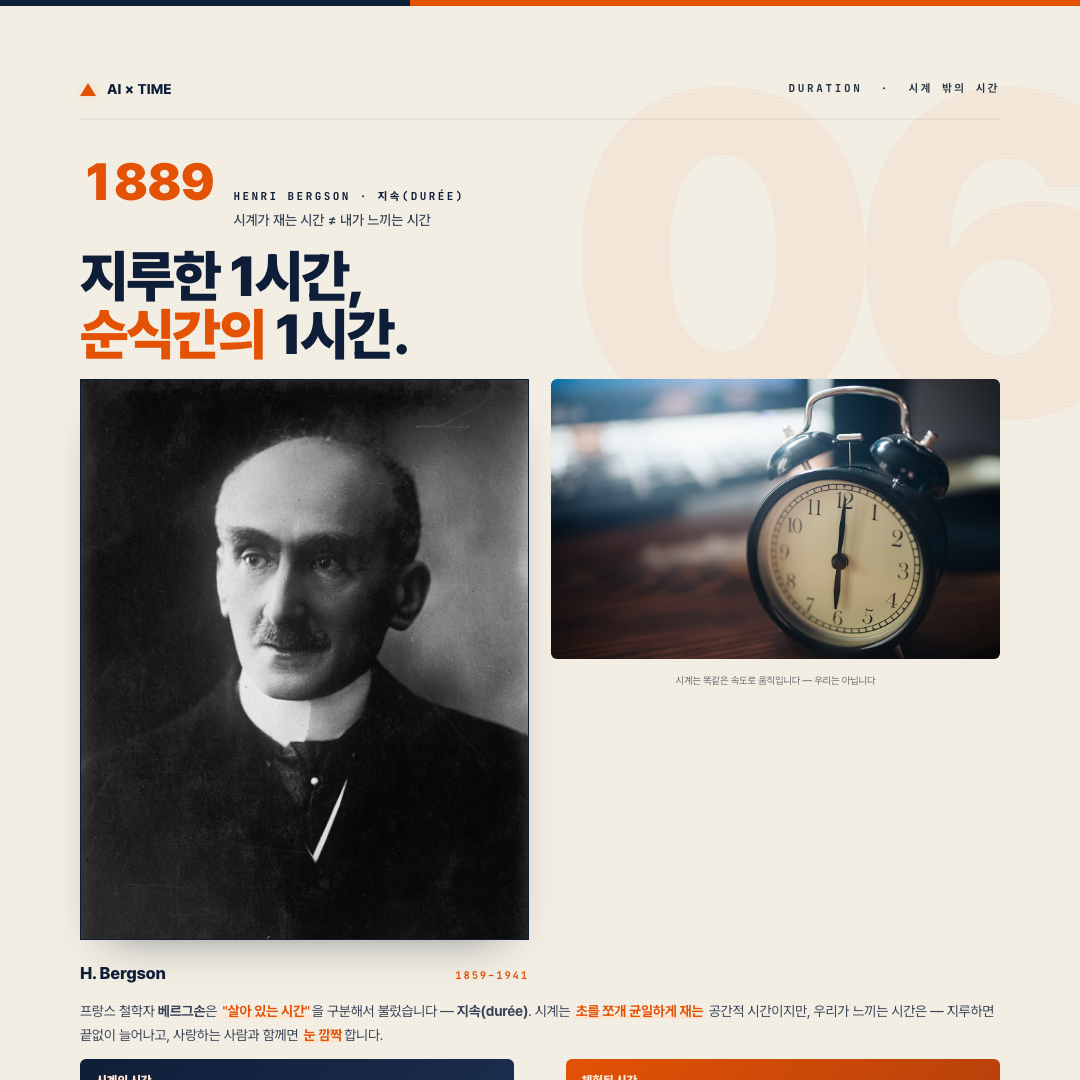
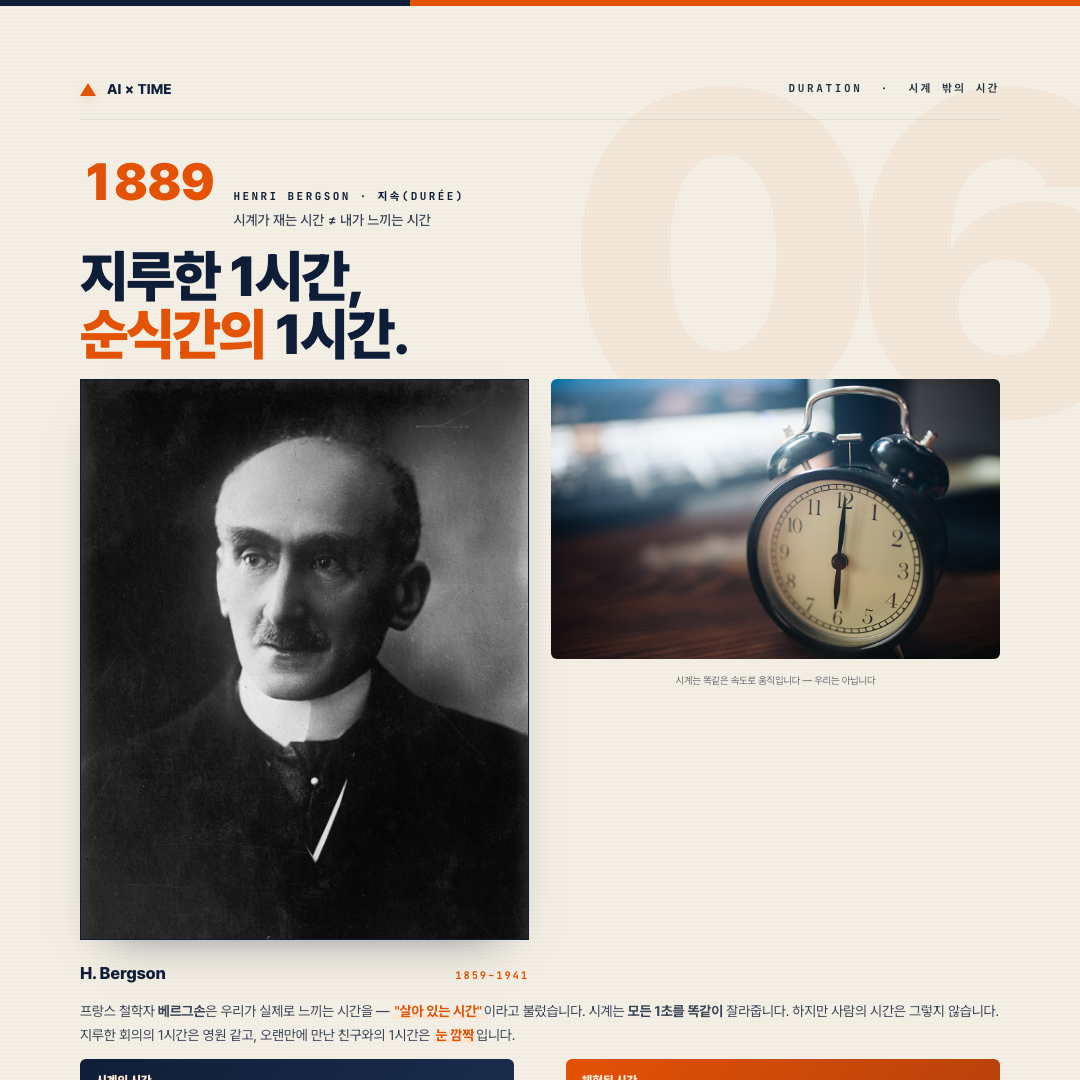
simplify(time): 디퓨전 모델 설명 추가 + 전반적으로 일반 독자 친화
- 08 Diffusion: "디퓨전이 뭐하는 모델인지"부터 설명. 3-step pipeline
  (섞기 훈련 → 복원 학습 → 생성 사용) 박스로 시각화.
  Stable Diffusion · DALL-E · Sora 언급하여 독자가 이미 아는 이름과
  연결. 달걀 비유는 유지하되 "법칙을 뚫은 게 아니라 과정을 기억한 것"
  으로 오해 없도록 명확화.

- 07 Attention: 시작 문단에 "ChatGPT의 핵심 부품" 한 줄 먼저.
  "셀프 어텐션 = 각 단어가 다른 단어를 얼마나 참고할지 계산" 풀이.

- 02 Boltzmann: "열역학 제2법칙" 용어 제거 → "외부에서 정리 안 하면
  저절로 어질러진다"로 평문화.

- 03 Chaos: 삼체·나비효과 도입부를 질문형으로. 《삼체》 소설 언급.

- 04 Arrow: "영화를 뒤로 돌린 적 있습니까" 체감 도입.

- 06 Bergson: "지속(durée)" 한자·영어 대신 "살아 있는 시간"으로.

- 09 Synthesis: "금지된 두 가지가 AI에겐 매일 하는 일" 풀이.

Changed region(s): [[0.0611, 0.9167, 0.9167, 0.9778]]

diff --git a/17-cards-time/08-diffusion.html b/17-cards-time/08-diffusion.html
@@ -1,5 +1,5 @@
 <!DOCTYPE html>
-<html lang="ko"><head><meta charset="UTF-8" /><title>08 · Diffusion · 섞음을 되감다</title>
+<html lang="ko"><head><meta charset="UTF-8" /><title>08 · 디퓨전 모델</title>
 <link rel="stylesheet" href="https://fonts.googleapis.com/css2?family=JetBrains+Mono:wght@400;500;700&family=Noto+Serif+KR:wght@400;700;900&family=Noto+Sans+KR:wght@300;400;500;700;900&display=swap" />
 <link rel="stylesheet" href="../style.css" /></head>
 <body>
@@ -8,45 +8,48 @@
   <div class="stage">
     <div class="header">
       <div class="brandmark"><span class="tri"></span> AI × TIME</div>
-      <div class="chaptertag">DIFFUSION &nbsp;·&nbsp; 엔트로피를 거꾸로</div>
+      <div class="chaptertag">DIFFUSION &nbsp;·&nbsp; 섞인 것을 되돌리는 AI</div>
     </div>
     <div class="era">
-      <span class="year">2015·2020</span>
-      <span class="label"><b>Sohl-Dickstein · Ho et al. · DDPM</b><span class="sub">섞기 → 되감기의 수학</span></span>
+      <span class="year">2020</span>
+      <span class="label"><b>디퓨전 모델 · Stable Diffusion · Sora의 뿌리</b><span class="sub">한 줄의 텍스트로 그림이 나오는 이유</span></span>
     </div>
-    <h1 class="title sm">AI는 <em>스크램블 에그</em>를<br />다시 달걀로 돌립니다.</h1>
+    <h1 class="title sm">AI 그림은 —<br /><em>안개</em>에서 태어납니다.</h1>
+
+    <div class="body" style="margin-top:12px; font-size:14.5px;">
+      <p><b>디퓨전 모델</b>은 <em>Stable Diffusion · DALL-E · Sora</em> 같은 이미지·영상 AI의 핵심입니다. 글 몇 줄만 쓰면 한 번도 존재하지 않은 그림을 만들어냅니다. 어떻게 가능할까요? 답은 놀랍게도 — <b>시간을 거꾸로 돌리는 학습</b>입니다.</p>
+    </div>
+
+    <!-- 3-step pipeline -->
+    <div style="margin-top:14px; display:grid; grid-template-columns:1fr 1fr 1fr; gap:12px;">
+      <div style="padding:13px 15px; background:linear-gradient(135deg, #0f1e38, #1c2e4e); border-radius:6px; color:white;">
+        <div style="font-size:12px; font-weight:900; color:#FFE4D0; margin-bottom:4px;">1. 섞기 (훈련)</div>
+        <div style="font-size:11.5px; opacity:0.92; line-height:1.5;">진짜 사진에 <b>노이즈(먼지)</b>를 조금씩 섞어 — 완전한 <em style="color:#FFE4D0;">안개</em>로 만듭니다.</div>
+      </div>
+      <div style="padding:13px 15px; background:linear-gradient(135deg, #0f1e38, #1c2e4e); border-radius:6px; color:white;">
+        <div style="font-size:12px; font-weight:900; color:#FFE4D0; margin-bottom:4px;">2. 복원 배우기</div>
+        <div style="font-size:11.5px; opacity:0.92; line-height:1.5;">"이 안개를 한 단계 덜 흐리게 만들려면 무엇을 지워야 하나"를 <em style="color:#FFE4D0;">반복 학습</em>합니다.</div>
+      </div>
+      <div style="padding:13px 15px; background:linear-gradient(135deg, #E35205, #B5400B); border-radius:6px; color:white;">
+        <div style="font-size:12px; font-weight:900; color:#FFE4D0; margin-bottom:4px;">3. 생성 (사용)</div>
+        <div style="font-size:11.5px; opacity:0.95; line-height:1.5;">완전한 안개에서 <b>한 단계씩 지워</b> — 한 번도 없던 <em style="color:#FFE4D0;">새 그림</em>이 나옵니다.</div>
+      </div>
+    </div>
 
     <div class="split" style="grid-template-columns:1.2fr 1fr; gap:22px; margin-top:14px; align-items:start;">
       <div class="left body-sm" style="font-size:13.5px;">
-        <p><b>디퓨전 모델</b>의 아이디어는 황당할 만큼 단순합니다 —<br /><em>① 이미지에 노이즈(먼지)를 아주 조금씩 넣어 완전히 흐릿한 안개로 만듭니다.</em><br /><em>② 그 과정을 하나하나 기억한 다음, 반대 방향으로 되돌리는 법을 배웁니다.</em></p>
-        <p style="margin-top:8px;">달걀을 풀어 스크램블 에그를 만들면 — 엔트로피가 올라갑니다. 자연에선 이걸 되돌릴 수 없습니다. 그런데 AI는 <b>"어떻게 섞였는지"</b>를 통째로 배워서 — <em>거꾸로 되감는 법</em>을 알아냈습니다. <b>엔트로피를 역산</b>하는 기계입니다.</p>
-        <div style="margin-top:10px; padding:9px 12px; background:rgba(227,82,5,0.07); border-left:3px solid var(--brand);">
-          <div style="font-size:9.5px; letter-spacing:1.5px; color:var(--brand); font-weight:700;">DDPM · 2020</div>
-          <div style="font-size:12px; line-height:1.5;">T단계 동안 노이즈를 더하고 / T단계에 걸쳐 다시 지웁니다. 이것이 Stable Diffusion · DALL-E · Sora의 뿌리입니다.</div>
-        </div>
+        <p>비유하자면 — <b>달걀 풀기 → 스크램블 에그</b>는 자연에서 일어납니다. 하지만 <em>반대로</em>, 스크램블 에그를 다시 달걀로 되돌리는 건 불가능합니다. 엔트로피 법칙이 막습니다.</p>
+        <p style="margin-top:8px;">디퓨전 AI는 이 법칙을 <b>뚫은 것이 아닙니다</b>. 대신 — <em>"어떻게 섞였는지"를 수백만 번 관찰</em>한 뒤, 그 기록을 이용해 <b>한 단계씩 거꾸로</b> 지우는 법을 배운 것입니다. 자연이 못 하는 걸 AI가 해낸 이유 — <em>과정을 통째로 기억했기 때문</em>입니다.</p>
       </div>
       <div class="right">
-        <img src="../images/scrambled-eggs.jpg" style="width:100%; height:260px; object-fit:cover; border-radius:6px;" alt="Scrambled eggs" />
-        <p style="font-size:10px; margin-top:4px; opacity:0.6; text-align:center;">자연에선 불가능 · AI는 가능합니다</p>
-      </div>
-    </div>
-
-    <!-- Forward vs Reverse diffusion -->
-    <div style="margin-top:14px; display:grid; grid-template-columns:1fr auto 1fr; gap:14px; align-items:stretch;">
-      <div style="padding:12px 16px; background:linear-gradient(135deg, #0f1e38, #1c2e4e); border-radius:6px; color:white;">
-        <div style="font-size:12.5px; font-weight:900; color:#FFE4D0; margin-bottom:4px;">섞기 (Forward)</div>
-        <div style="font-size:11.5px; opacity:0.92; line-height:1.5;">깨끗한 이미지 → <em style="color:#FFE4D0;">완전한 안개</em>까지 서서히 섞습니다. 자연의 방향.</div>
-      </div>
-      <div style="font-size:20px; font-weight:900; color:var(--brand); align-self:center;">↩</div>
-      <div style="padding:12px 16px; background:linear-gradient(135deg, #E35205, #B5400B); border-radius:6px; color:white;">
-        <div style="font-size:12.5px; font-weight:900; color:#FFE4D0; margin-bottom:4px;">되감기 (Reverse)</div>
-        <div style="font-size:11.5px; opacity:0.95; line-height:1.5;">안개 → 그림으로 <em style="color:#FFE4D0;">거꾸로</em>. AI만 할 수 있는 방향입니다.</div>
+        <img src="../images/scrambled-eggs.jpg" style="width:100%; height:220px; object-fit:cover; border-radius:6px;" alt="Scrambled eggs" />
+        <p style="font-size:10px; margin-top:4px; opacity:0.6; text-align:center;">자연은 못 합니다 · AI는 <em>기록한 만큼</em> 해냅니다</p>
       </div>
     </div>
 
     <div class="insight" style="margin-top:12px; padding:11px 18px;">
-      <span class="label" style="font-size:11px;">▲ 철학적 의미</span>
-      <span class="text" style="font-size:13.5px;">디퓨전은 <em>엔트로피 법칙을 이기는 기계</em>가 아닙니다. 섞는 과정을 <b>완벽히 기록</b>했기 때문에 되감을 수 있을 뿐입니다 — 시간의 방향은 여전히 한쪽입니다.</span>
+      <span class="label" style="font-size:11px;">▲ 핵심</span>
+      <span class="text" style="font-size:13.5px;">디퓨전은 <em>엔트로피를 이기는 기계</em>가 아니라 — <b>섞는 과정을 역재생할 수 있는 기계</b>입니다. 시간의 방향은 여전히 한쪽입니다.</span>
     </div>
 
     <div class="foot">

diff --git a/17-cards-time/03-chaos.html b/17-cards-time/03-chaos.html
@@ -25,11 +25,11 @@
         </div>
       </div>
       <div class="right body-sm" style="font-size:13.5px;">
-        <p>1890년 <b>푸앵카레</b>는 간단한 질문을 풀다가 놀랐습니다. 태양·지구·달처럼 <em>별 세 개</em>가 서로 끌어당기는 운동을 계산하려 했더니 — <b>정확한 해가 존재하지 않았습니다</b>. 이것이 <em>삼체 문제(Three-Body Problem)</em>입니다.</p>
-        <p style="margin-top:8px;">법칙은 분명합니다(뉴턴의 중력). 처음 위치도 압니다. 그런데 — <b>시작을 아주 조금만 다르게 잡아도</b> 결과가 완전히 달라집니다. 소설 <em>《삼체》(류츠신)</em>가 바로 이 현상을 제목으로 삼았습니다.</p>
+        <p>해·지구·달처럼 <em>별 세 개</em>가 서로 끌어당기면 어떻게 움직일까요? 1890년 <b>푸앵카레</b>는 이 단순한 문제를 풀려다가 놀랐습니다. 계산식 자체는 있습니다. 그런데 — <b>정확한 답이 존재하지 않았습니다</b>. 이것이 <em>삼체 문제</em>입니다. 류츠신의 SF 소설 <em>《삼체》</em>가 바로 여기서 제목을 가져왔습니다.</p>
+        <p style="margin-top:8px;">법칙은 알고 시작 위치도 압니다. 그런데 — <b>시작을 아주 조금만 다르게 잡으면</b> 결과가 완전히 달라집니다. 결정론의 꿈에 균열이 생긴 순간입니다.</p>
         <div style="margin-top:10px; padding:9px 12px; background:rgba(227,82,5,0.07); border-left:3px solid var(--brand);">
           <div style="font-size:9.5px; letter-spacing:1.5px; color:var(--brand); font-weight:700;">↩ 이어지는 시리즈 · 16 DESTINY</div>
-          <div style="font-size:12px; line-height:1.5;">"라플라스의 악마"는 모든 걸 알면 미래를 안다고 했습니다. 삼체와 카오스는 그 꿈에 첫 번째가 아닌 <em>두 번째 구멍</em>을 냈습니다.</div>
+          <div style="font-size:12px; line-height:1.5;">"모든 원자를 알면 미래도 안다"는 <b>라플라스의 꿈</b>에, 카오스는 <em>두 번째 구멍</em>을 냈습니다. 첫 번째는 양자역학이었습니다.</div>
         </div>
       </div>
     </div>
@@ -37,8 +37,8 @@
     <!-- Lorenz butterfly effect -->
     <div class="split" style="grid-template-columns:1.2fr 1fr; gap:22px; margin-top:14px; align-items:start;">
       <div class="left body-sm" style="font-size:13.5px;">
-        <p>1963년 기상학자 <b>에드워드 로렌츠</b>가 컴퓨터 시뮬레이션에서 <em>소수점 셋째 자리</em>만 달리 입력했더니 — 몇 주 뒤 기상 예보가 완전히 달라졌습니다. <em>"브라질에서 나비가 날개짓하면, 텍사스에 토네이도가 올까?"</em> 이것이 <b>나비효과</b>입니다.</p>
-        <p style="margin-top:8px;">우주는 결정적입니다. 그러나 <em>무한히 정밀한 측정은 불가능</em>합니다. 법칙 + 불완전한 정보 = 현실적 <b>예측 불가</b>. 카오스는 이런 구조를 부르는 이름입니다.</p>
+        <p>1963년 기상학자 <b>에드워드 로렌츠</b>는 날씨 시뮬레이션에서 숫자 하나의 <em>소수점 셋째 자리</em>만 바꿔 다시 돌려봤습니다. 결과 — 몇 주 뒤 예보가 <b>완전히 달라졌습니다</b>. 여기서 나온 말이 바로 — <em>"브라질에서 나비가 한 번 날갯짓하면, 텍사스에 토네이도가 일어날 수 있다"</em>는 <b>나비효과</b>입니다.</p>
+        <p style="margin-top:8px;">우주의 법칙은 정해져 있습니다. 그런데 — <em>시작을 완벽히 측정하는 것은 불가능</em>합니다. 법칙 + 약간의 오차 = <b>현실에선 예측 불가능</b>. 이게 바로 카오스입니다.</p>
       </div>
       <div class="right">
         <img src="../images/lorenz-attractor.svg" style="width:100%; height:220px; object-fit:contain; background:var(--bg-soft); padding:10px; border-radius:6px;" alt="Lorenz attractor" />

diff --git a/17-cards-time/04-arrow.html b/17-cards-time/04-arrow.html
@@ -18,11 +18,11 @@
 
     <div class="split" style="grid-template-columns:1.15fr 1fr; gap:22px; margin-top:14px; align-items:start;">
       <div class="left body-sm" style="font-size:13.5px;">
-        <p><b>에딩턴</b>이 만든 말 — <em>"시간의 화살"</em>. 세상의 모든 사건에는 앞뒤가 있습니다. 컵이 떨어져 깨지고, 불이 타들어가고, 사람이 나이를 먹습니다. 그 반대 장면은 — 본 적이 없습니다.</p>
-        <p style="margin-top:8px;">뉴턴의 법칙 자체는 <em>앞뒤가 똑같습니다</em>. 공이 떨어지는 영상은 거꾸로 돌려도 물리적으로 가능합니다. 그런데 <b>유리컵이 깨지는 영상</b>은 — 거꾸로는 절대 일어나지 않습니다.</p>
+        <p>영화를 <em>뒤로</em> 돌려본 적이 있습니까? 공이 떨어지는 장면을 거꾸로 하면 그냥 <b>공이 위로 튀어오르는 장면</b>이 됩니다 — 가능해 보입니다. 그런데 <em>유리컵이 깨지는 장면</em>을 거꾸로 하면 — <b>부서진 조각이 저절로 모여 컵이 되는 장면</b>이 되어, 단박에 "이상하다"는 걸 느낍니다.</p>
+        <p style="margin-top:8px;">천문학자 <b>에딩턴</b>은 1927년 이 차이를 <em>"시간의 화살"</em>이라 불렀습니다. 세상의 모든 사건엔 앞뒤가 있다는 뜻입니다.</p>
         <div style="margin-top:10px; padding:9px 12px; background:rgba(227,82,5,0.07); border-left:3px solid var(--brand);">
-          <div style="font-size:9.5px; letter-spacing:1.5px; color:var(--brand); font-weight:700;">핵심</div>
-          <div style="font-size:12px; line-height:1.5;">이 차이는 <b>엔트로피 때문</b>입니다. 깨진 유리가 저절로 붙으려면 — 수십억 조각이 <em>정확히 한 자리</em>로 돌아와야 합니다. 확률이 0에 가깝습니다.</div>
+          <div style="font-size:9.5px; letter-spacing:1.5px; color:var(--brand); font-weight:700;">이유</div>
+          <div style="font-size:12px; line-height:1.5;">깨진 유리가 다시 붙으려면 수십억 조각이 <em>정확히 원래 자리</em>로 돌아와야 합니다. 법칙이 금지한 게 아니라 — 확률이 <b>0에 가깝게 작을</b> 뿐입니다.</div>
         </div>
       </div>
       <div class="right">

diff --git a/17-cards-time/02-boltzmann.html b/17-cards-time/02-boltzmann.html
@@ -25,11 +25,11 @@
         </div>
       </div>
       <div class="right body-sm" style="font-size:14px;">
-        <p><b>엔트로피</b>는 어려운 말 같지만 실은 단순합니다 — <em>"얼마나 섞여 있는가"</em>를 재는 숫자입니다. 책상 위 정리된 책은 낮고, 흩어진 책은 높습니다.</p>
-        <p style="margin-top:10px;"><b>볼츠만</b>은 1872년 증명했습니다. 닫힌 계에서 엔트로피는 <em>저절로 줄지 않습니다</em> — 오직 늘어나거나 그대로입니다. 이것이 <b>열역학 제2법칙</b>입니다.</p>
+        <p><b>엔트로피</b>는 어려운 말 같지만 실은 — "<em>얼마나 어질러졌는가</em>"를 재는 숫자입니다. 책상 위 정리된 책은 낮고, 흩어진 책은 높습니다.</p>
+        <p style="margin-top:10px;"><b>볼츠만</b>은 1872년 한 가지 사실을 증명했습니다 — 외부에서 누가 정리해주지 않으면, <em>엔트로피는 저절로 줄지 않습니다</em>. 오직 늘어나거나 그대로입니다. 이것이 세상이 <b>한 방향으로만 흐르는 이유</b>입니다.</p>
         <div style="margin-top:10px; padding:9px 12px; background:rgba(227,82,5,0.07); border-left:3px solid var(--brand);">
           <div style="font-size:9.5px; letter-spacing:1.5px; color:var(--brand); font-weight:700;">일상의 예</div>
-          <div style="font-size:12px; line-height:1.5;">커피에 떨어진 우유 한 방울은 — <b>저절로 퍼집니다</b>. 역방향은 — 아무리 기다려도 일어나지 않습니다.</div>
+          <div style="font-size:12px; line-height:1.5;">커피에 떨어진 우유 한 방울은 — <b>저절로 퍼집니다</b>. 반대로 퍼진 우유가 다시 한 방울로 모이는 일은 — 아무리 기다려도 일어나지 않습니다.</div>
         </div>
       </div>
     </div>

diff --git a/17-cards-time/07-attention.html b/17-cards-time/07-attention.html
@@ -17,7 +17,8 @@
     <h1 class="title sm">AI는 한 문장을 <em>동시에</em><br />모두 봅니다.</h1>
 
     <div class="body" style="margin-top:12px; font-size:14.5px;">
-      <p>사람이 글을 읽을 때는 <b>왼쪽에서 오른쪽</b>으로 — 시간 순서대로 읽습니다. 2017년 이전의 AI(RNN·LSTM)도 그랬습니다. 그런데 트랜스포머 이후의 LLM은 다릅니다. 문장을 받으면 — <em>모든 단어를 동시에 서로 바라봅니다</em>. 이것을 <b>셀프 어텐션</b>이라 부릅니다.</p>
+      <p><b>셀프 어텐션</b>은 ChatGPT 같은 AI의 핵심 부품입니다. 이름은 낯설지만 — 하는 일은 단순합니다. <em>문장 속 각 단어가, 같은 문장의 다른 단어들을 얼마나 참고할지</em> 계산하는 장치입니다.</p>
+      <p style="margin-top:8px;">사람은 글을 <b>왼쪽에서 오른쪽</b>으로 한 단어씩 읽습니다. 2017년 이전의 AI도 같은 방식이었습니다. 그런데 트랜스포머 이후의 LLM은 — <em>문장 전체를 한 번에 펼쳐놓고, 모든 단어가 서로를 동시에 바라봅니다</em>.</p>
     </div>
 
     <!-- Self-attention diagram SVG -->

diff --git a/17-cards-time/09-ai-time.html b/17-cards-time/09-ai-time.html
@@ -17,7 +17,7 @@
     <h1 class="title sm">AI는 시간을 <em>지도</em>로<br />대합니다.</h1>
 
     <div class="body" style="margin-top:12px; font-size:14.5px;">
-      <p>사람의 시간은 <b>한 방향</b>입니다. 과거는 지나갔고 미래는 안 왔습니다. 하지만 AI는 — <em>셀프 어텐션</em>으로 과거를 아무 순서로나 다시 읽고, <em>디퓨전</em>으로 섞인 것을 되감습니다. 사람에게 금지된 두 가지가 — AI에겐 일상입니다.</p>
+      <p>사람의 시간은 <b>한 방향</b>입니다. 과거는 지나갔고 미래는 아직 오지 않았습니다. 그런데 AI는 다릅니다 — <em>셀프 어텐션</em>은 문장 속 과거 단어를 아무 순서로나 다시 들여다보고, <em>디퓨전</em>은 섞여버린 이미지를 처음으로 되돌립니다. 사람에게 <b>금지된 두 가지</b>가 — AI에겐 매일 하는 일입니다.</p>
     </div>
 
     <!-- Mapping table -->

diff --git a/17-cards-time/06-bergson.html b/17-cards-time/06-bergson.html
@@ -31,7 +31,7 @@
     </div>
 
     <div class="body" style="margin-top:12px; font-size:14px;">
-      <p>프랑스 철학자 <b>베르그손</b>은 <em>"살아 있는 시간"</em>을 구분해서 불렀습니다 — <b>지속(durée)</b>. 시계는 <em>초를 쪼개 균일하게 재는</em> 공간적 시간이지만, 우리가 느끼는 시간은 — 지루하면 끝없이 늘어나고, 사랑하는 사람과 함께면 <em>눈 깜짝</em>합니다.</p>
+      <p>프랑스 철학자 <b>베르그손</b>은 우리가 실제로 느끼는 시간을 — <em>"살아 있는 시간"</em>이라고 불렀습니다. 시계는 <b>모든 1초를 똑같이</b> 잘라줍니다. 하지만 사람의 시간은 그렇지 않습니다. 지루한 회의의 1시간은 영원 같고, 오랜만에 만난 친구와의 1시간은 <em>눈 깜짝</em>입니다.</p>
     </div>
 
     <!-- Objective vs subjective time -->
